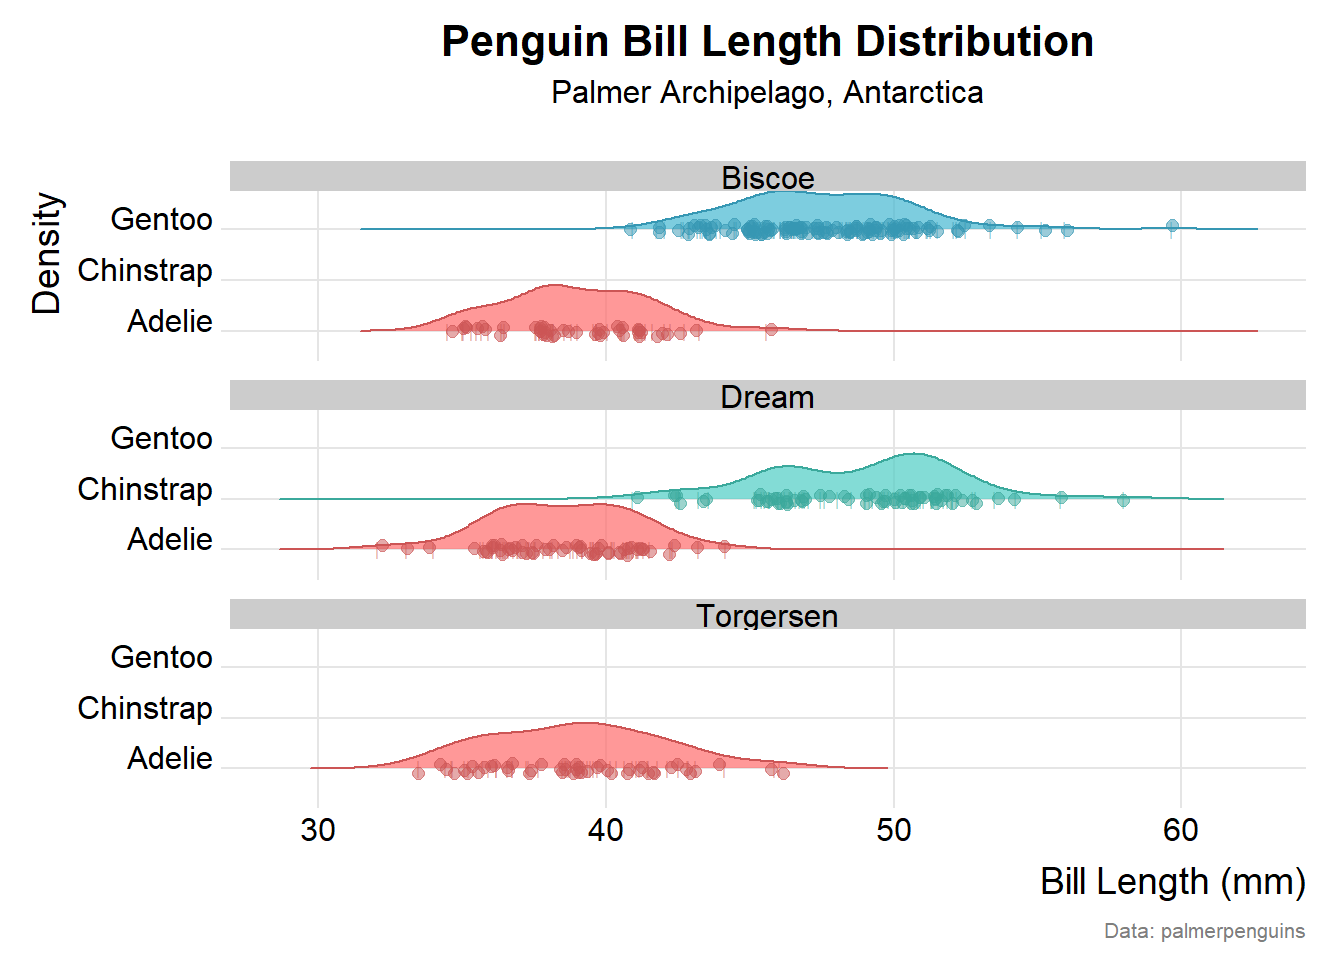
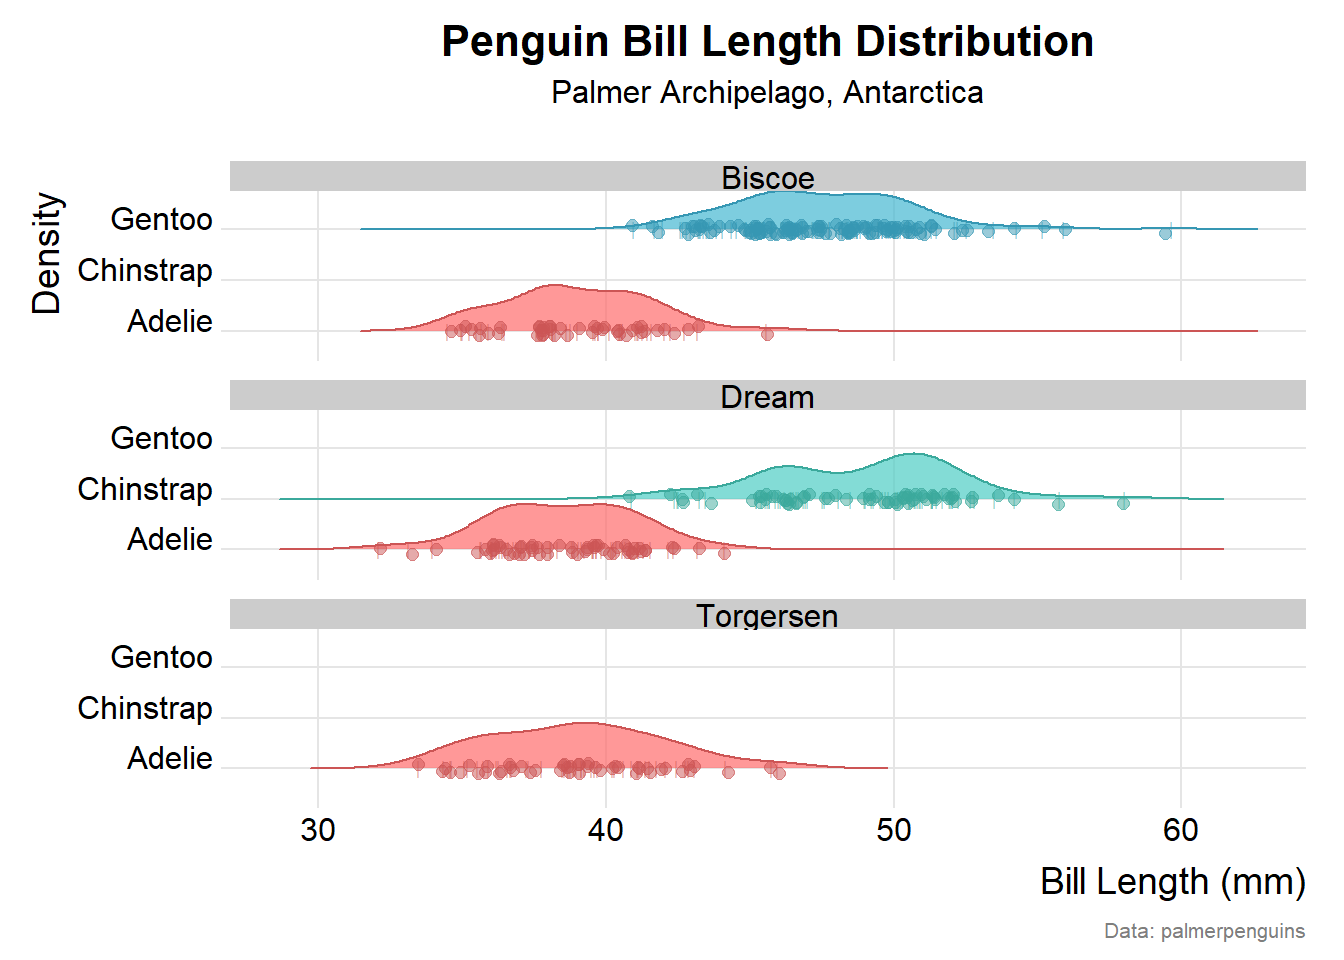
Built site for gh-pages

diff --git a/index.html b/index.html
@@ -83,7 +83,7 @@ pre > code.sourceCode > span > a:first-child::before { text-decoration: underlin
 
 
 <hr>
-<p>title: Quarto-1 format: html execute: echo: false</p>
+<p>title: “Quarto-1” format: html execute: echo: false warning: false</p>
 <hr>
 <div class="cell">
 <div class="sourceCode cell-code" id="cb1"><pre class="sourceCode r code-with-copy"><code class="sourceCode r"><span id="cb1-1"><a href="#cb1-1" aria-hidden="true" tabindex="-1"></a><span class="fu">suppressPackageStartupMessages</span>(<span class="fu">library</span>(tidyverse))</span>

diff --git a/quarto-1.html b/quarto-1.html
@@ -83,7 +83,7 @@ pre > code.sourceCode > span > a:first-child::before { text-decoration: underlin
 
 
 <hr>
-<p>title: Quarto-1 format: html execute: echo: false</p>
+<p>title: “Quarto-1” format: html execute: echo: false warning: false</p>
 <hr>
 <div class="cell">
 <div class="sourceCode cell-code" id="cb1"><pre class="sourceCode r code-with-copy"><code class="sourceCode r"><span id="cb1-1"><a href="#cb1-1" aria-hidden="true" tabindex="-1"></a><span class="fu">suppressPackageStartupMessages</span>(<span class="fu">library</span>(tidyverse))</span>
